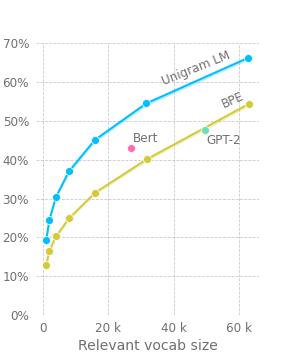
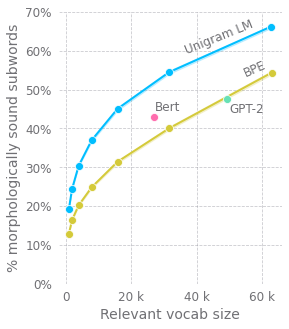
Fix tokenization post thumbnail

diff --git a/_notebooks/helpers/tokenization.py b/_notebooks/helpers/tokenization.py
@@ -254,7 +254,7 @@ def make_thumbnail():
     plt.text(bpe.useful_vocab_size - 1000, bpe.score - 0.01, "BPE", size='large', ha='right', rotation=24)
     plt.text(ulm.useful_vocab_size - 5000, ulm.score - 0.07, "Unigram LM", size='large', ha='right', rotation=22)
     ax.legend().set_visible(False)
-    plt.savefig("../images/tokenization-preview.png")
+    plt.savefig("../images/tokenization-preview.png", bbox_inches='tight')
 
 
 def plot_learning_speed():
